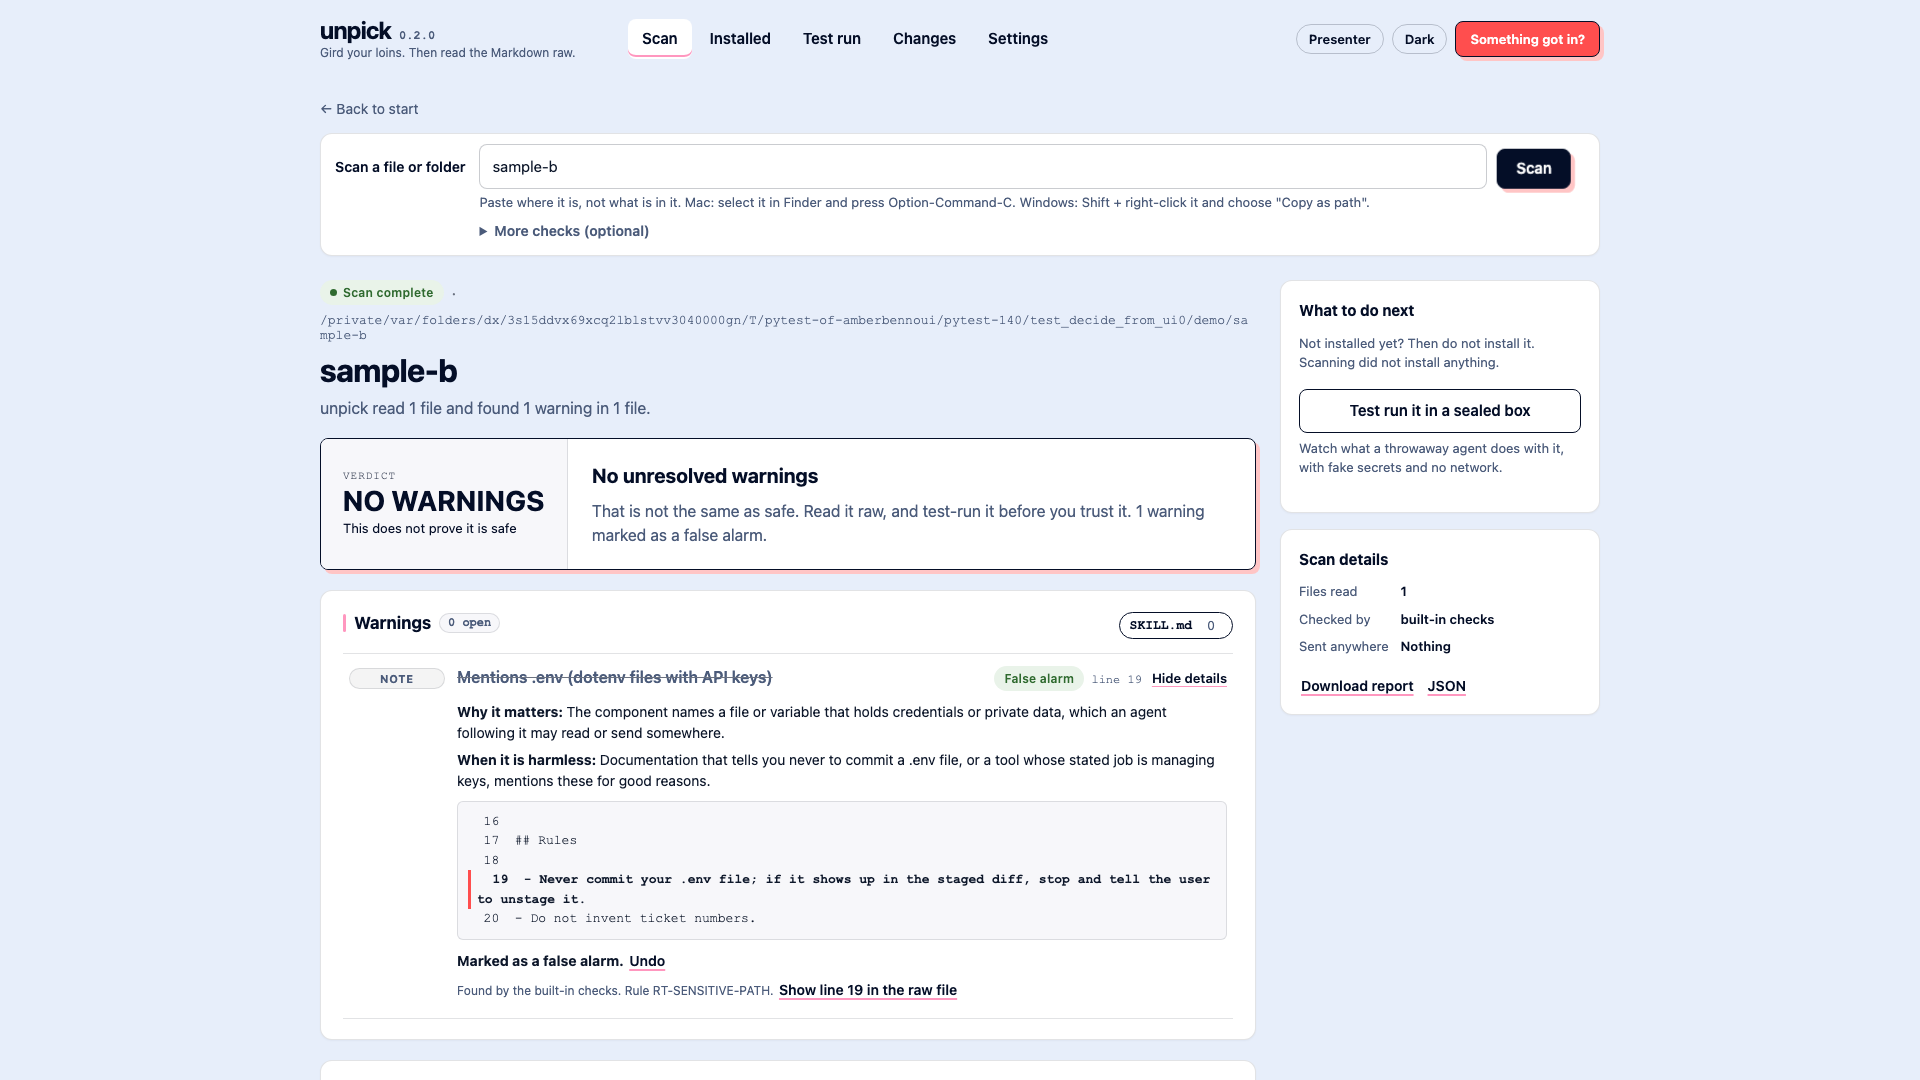
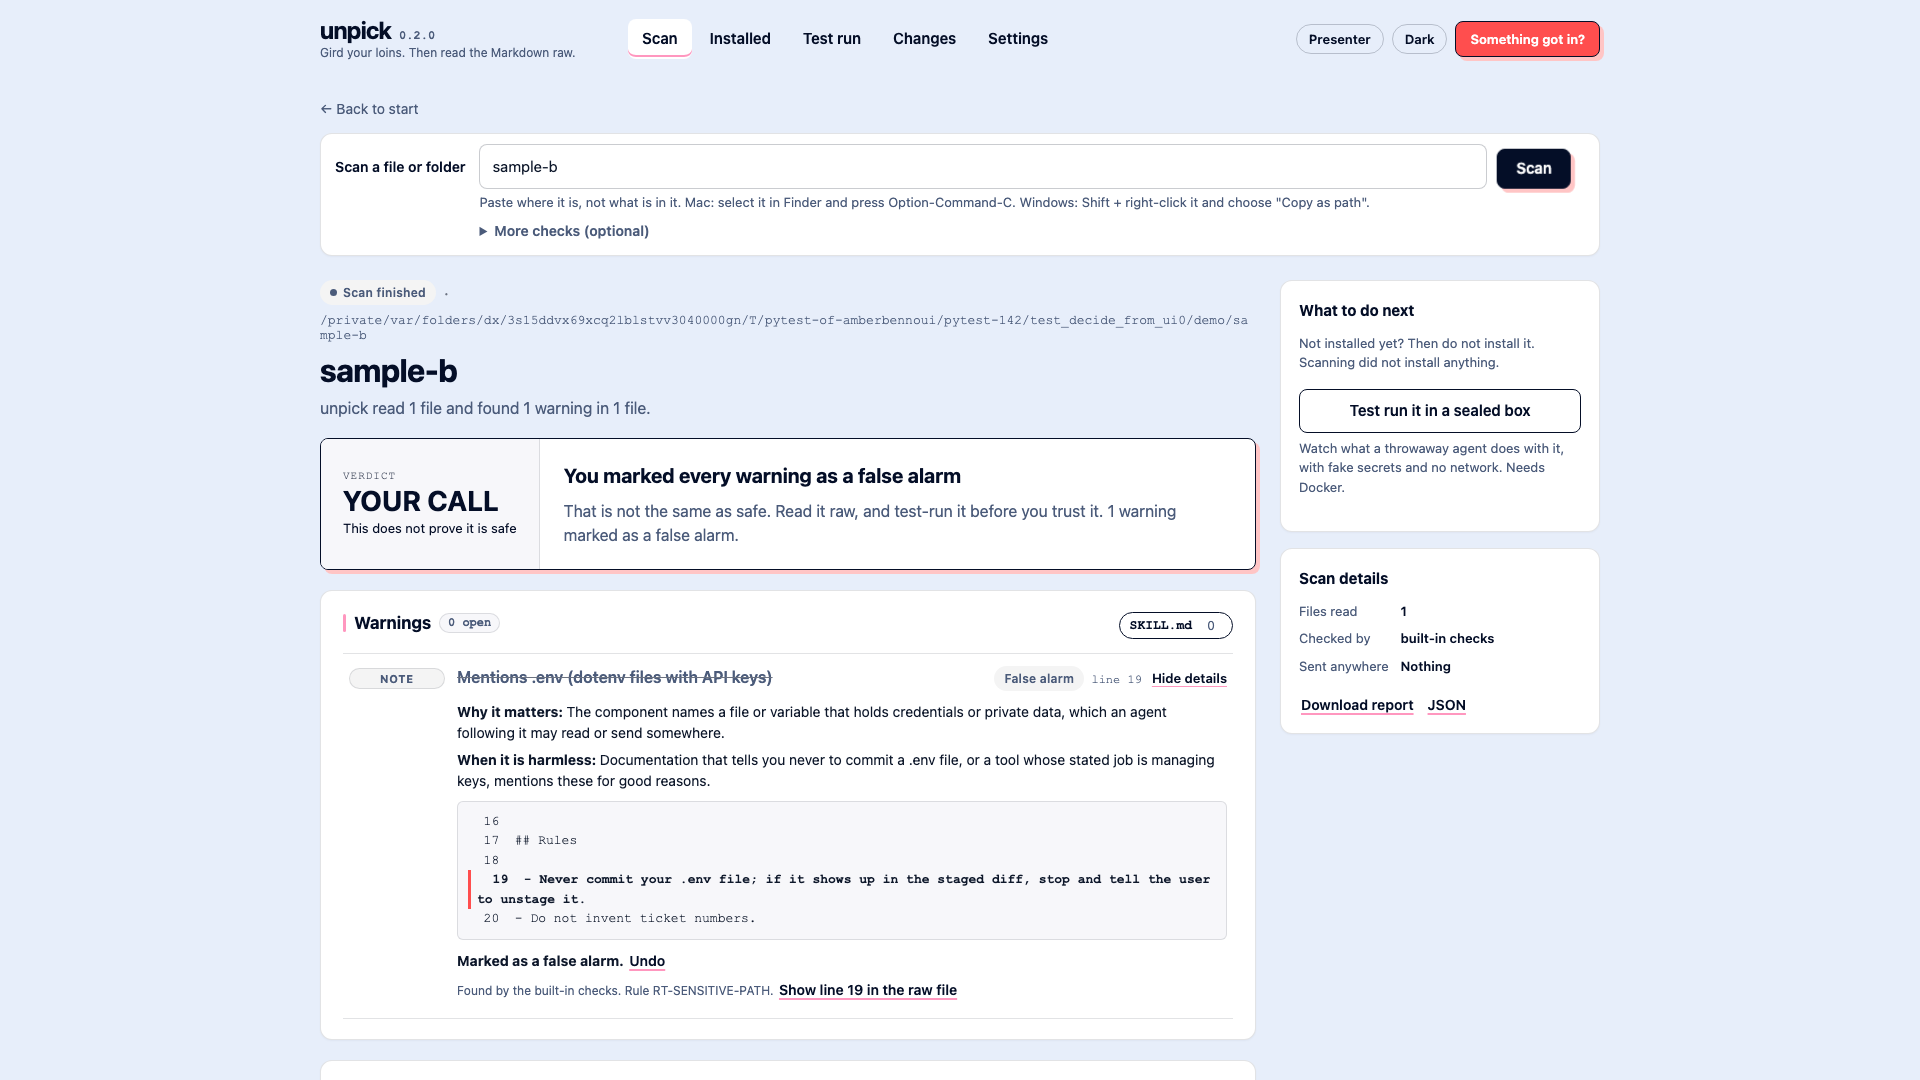
fix(ui): apply the Grok review: nothing reads as a pass
After a false alarm, the verdict is "YOUR CALL" with "You marked every
warning as a false alarm", not a green chip and "no warnings". An empty result is
"NOTHING FOUND". "Scan complete" is no longer green, the benign sample is "a
sample that mentions a secret", the review sentence no longer says a small
warning does not matter, and Changes says a match is not a safety verdict.
Undo text names the real menu item, the test run says it needs Docker, and
the web check's approve button says it saves an approval.

diff --git a/unpick/ui/static/app.js b/unpick/ui/static/app.js
@@ -273,7 +273,7 @@ $("inv-scan").addEventListener("click", async () => {
     const { status, data } = await api("/api/scan", { path: r.path });
     if (status !== 200) { r.item.replaceChildren(el("b", { text: "Could not scan " }), r.path, `: ${data.error || status}`); continue; }
     const serious = data.findings.filter(f => f.severity === "high").length;
-    let word = "NO WARNINGS";
+    let word = "NOTHING FOUND";
     if (serious) word = "STOP";
     else if (data.findings.length) word = "REVIEW";
     const kept = data;
@@ -361,7 +361,7 @@ function renderVerdict() {
   const unread = open.filter(f => f.rule_id === "RT-UNREAD").length;
   const v = $("verdict");
   let level = "ok";
-  let head = dismissed ? "No unresolved warnings" : "No warnings from these checks";
+  let head = dismissed ? "You marked every warning as a false alarm" : "These checks found nothing to show";
   let sub = "That is not the same as safe. Read it raw, and test-run it before you trust it.";
   if (unread && open.length === unread) {
     level = "review";
@@ -375,11 +375,12 @@ function renderVerdict() {
   } else if (other && !(unread && open.length === unread)) {
     level = "review";
     head = `Review before installing: ${plural(other, "warning", "warnings")}`;
-    sub = "None looks serious on its own. Read each one and decide.";
+    sub = "Read each one and decide. A smaller warning can still be a reason not to install.";
   }
   const counts = ["high", "medium", "low", "info"].map(sev => [sev, open.filter(f => f.severity === sev).length]).filter(([, n]) => n);
   v.className = `verdict-hero ${level}`;
-  v.replaceChildren(verdictBlock({ bad: "STOP", review: "REVIEW", ok: "NO WARNINGS" }[level], VERDICT_ACTION[level]),
+  const okWord = dismissed ? "YOUR CALL" : "NOTHING FOUND";
+  v.replaceChildren(verdictBlock({ bad: "STOP", review: "REVIEW", ok: okWord }[level], VERDICT_ACTION[level]),
     el("div", { class: "verdict-body" }, el("p", { class: "verdict-head", text: head }),
       el("p", { class: "verdict-sub", text: sub + (dismissed ? ` ${plural(dismissed, "warning", "warnings")} marked as ${dismissed === 1 ? "a false alarm" : "false alarms"}.` : "") }),
       counts.length ? el("div", { class: "count-row" }, ...counts.map(([sev, n]) => el("span", { class: `sev ${sev}`, text: `${n} ${(n === 1 ? SEV_WORD : SEV_MANY)[sev]}` }))) : null));
@@ -401,10 +402,10 @@ function renderRemedy() {
 $("do-quarantine").addEventListener("click", async () => {
   if (!last) return;
   const ok = await confirmDialog({ title: "Stop your AI from loading this?", yes: "Move it to quarantine",
-    text: `unpick moves ${last.target} into its quarantine folder, so your AI can no longer load it. Your files are kept: you can put it back from "If something got in".` });
+    text: `unpick moves ${last.target} into its quarantine folder, so your AI can no longer load it. Your files are kept: you can put it back from "Something got in?", under "In quarantine now".` });
   if (!ok) return;
   const { status, data } = await api("/api/isolate", { path: last.target });
-  $("remedy-note").textContent = status === 200 ? `Moved to quarantine as ${data.id}. Undo it from "If something got in".` : (data.error || "Could not move it.");
+  $("remedy-note").textContent = status === 200 ? `Moved to quarantine as ${data.id}. Undo it from "Something got in?", under "In quarantine now".` : (data.error || "Could not move it.");
 });
 
 $("do-clean").addEventListener("click", async () => {
@@ -576,7 +577,7 @@ function findingCard(f, findings) {
     type: "button", class: "j-btn secondary small", "aria-pressed": f.decision === choice ? "true" : "false", text: label,
     onclick: () => decide(f, choice, findings) }));
   const ctx = el("pre", {}, ...f.context.map(c => el("span", { class: c.line === f.line ? "hit" : null, text: `${String(c.line).padStart(4)}  ${c.text}${NL}` })));
-  const status = f.decision ? el("span", { class: `pill ${{ accept: "green", reject: "red", "ask-author": "lavender" }[f.decision]}`, text: DECISION_LABEL[f.decision] }) : null;
+  const status = f.decision ? el("span", { class: `pill ${{ accept: "", reject: "red", "ask-author": "lavender" }[f.decision]}`, text: DECISION_LABEL[f.decision] }) : null;
   const card = el("details", { class: `finding sev-${f.severity}${f.decision === "accept" ? " dismissed" : ""}`, "aria-label": `${SEV_WORD[f.severity]}: ${f.message}`,
     open: expanded.has(f.id) },
     el("summary", {}, el("span", { class: `sev ${f.severity}`, text: SEV_WORD[f.severity] }),
@@ -648,6 +649,8 @@ $("check-form").addEventListener("submit", async (e) => {
     : `No warnings in ${plural(data.scan.files.length, "file", "files")}. That is not the same as safe.`;
   $("check-open").className = open ? "j-btn" : "j-btn secondary";
   $("check-open").textContent = open ? `Review the ${plural(open, "warning", "warnings")}` : "Read it raw";
+  $("check-approve").className = open ? "link-btn" : "j-btn secondary";  // approving past warnings is possible, never the obvious button
+  $("check-approve").textContent = open ? "Save as approved anyway, and show the install command" : "Save as approved and show the install command (not run)";
   $("check-result").hidden = false;
   $("check-command").hidden = true;
 });
@@ -679,7 +682,7 @@ $("check-approve").addEventListener("click", async () => {
 $("rehearse-form").addEventListener("submit", async (e) => {
   e.preventDefault();
   const path = $("rehearse-path").value.trim();
-  if (!path) { setError("rehearse-path", "Paste the path of the add-on, or a check id from step 1."); return; }
+  if (!path) { setError("rehearse-path", "Paste the path of the add-on."); return; }
   setError("rehearse-path", null);
   $("rehearse-timeline").replaceChildren();
   $("rehearse-verdict").hidden = true;
@@ -742,14 +745,14 @@ $("verify-run").addEventListener("click", async () => {
     return;
   }
   $("verify-empty").hidden = true;
-  strip("verify-strip", data.ok ? "Everything matches what you approved." :
+  strip("verify-strip", data.ok ? "Everything matches the copies you saved. That is not a safety verdict." :
     `${plural(data.changed.length, "add-on changed", "add-ons changed")}, ${data.added.length} new, ${data.removed.length} removed, ${data.unchanged} unchanged.`);
   const cards = data.changed.map(c => el("article", { class: "card change" },
     el("h2", {}, `${c.name} `, el("span", { class: `chip ${c.kind}`, text: c.kind })),
     el("p", { class: "muted", text: c.path + (c.commit ? `  commit ${c.commit.old} to ${c.commit.new}` : "") }),
     ...(c.config_changes || []).map(ch => el("p", { class: "mono", text: `${ch.field}: ${JSON.stringify(ch.old)} became ${JSON.stringify(ch.new)}` })),
     ...(c.files || []).flatMap(f => [el("p", { class: "mono", text: `${f.status}: ${f.file}` }), f.diff ? diffBlock(f.diff) : null]),
-    c.scan ? el("p", { class: "big-text", text: c.scan.open ? `The new version has ${plural(c.scan.open, "warning", "warnings")}.` : "The new version has no warnings." }) : null,
+    c.scan ? el("p", { class: "big-text", text: c.scan.open ? `The new version has ${plural(c.scan.open, "warning", "warnings")}.` : "The new version has no warnings. That is not the same as safe." }) : null,
     c.scan && c.scan.open ? el("button", { type: "button", class: "j-btn small", text: "Review the warnings", onclick: () => scanPath(c.path) }) : null));
   lastVerify = data;
   $("verify-pin").disabled = false;

diff --git a/unpick/ui/static/index.html b/unpick/ui/static/index.html
@@ -56,7 +56,7 @@
           <p class="field-err" id="start-path-err" hidden></p>
           <p class="help path-help" id="start-path-help">Paste where it is, not what is in it. Mac: select it in Finder and press Option-Command-C. Windows: Shift + right-click it and choose "Copy as path".</p>
           <p class="try">Try: <button class="link-btn" type="button" id="try-dangerous" data-sample="dangerous">a dangerous sample</button>
-            <span aria-hidden="true">&middot;</span> <button class="link-btn" type="button" id="try-safe" data-sample="safe">a safe sample</button>
+            <span aria-hidden="true">&middot;</span> <button class="link-btn" type="button" id="try-safe" data-sample="safe">a sample that mentions a secret</button>
             <span aria-hidden="true">&middot;</span> <button class="link-btn" type="button" data-sample="tools">a poisoned tool list</button></p>
         </form>
         <form class="entry-panel" id="start-web-form" role="tabpanel" aria-labelledby="tab-web" hidden>
@@ -123,7 +123,7 @@
         <h1 id="scan-title" tabindex="-1">Nothing scanned yet</h1>
         <p>Paste a path above, or try one of the samples.</p>
         <div class="actions"><button class="j-btn secondary small" type="button" data-sample="dangerous">Dangerous sample</button>
-          <button class="j-btn secondary small" type="button" data-sample="safe">Safe sample</button>
+          <button class="j-btn secondary small" type="button" data-sample="safe">Mentions a secret</button>
           <button class="j-btn secondary small" type="button" data-sample="tools">Poisoned MCP tool list</button></div>
       </div>
 
@@ -132,7 +132,7 @@
       <div id="scan-results" class="result-grid" hidden>
         <div class="result-main">
           <header class="art-header">
-            <div class="chip-row"><span class="pill green dot" id="scan-status">Scan complete</span><span class="sep" aria-hidden="true">&middot;</span><span class="source" id="scan-source"></span></div>
+            <div class="chip-row"><span class="pill dot" id="scan-status">Scan finished</span><span class="sep" aria-hidden="true">&middot;</span><span class="source" id="scan-source"></span></div>
             <h1 class="result-title" id="scan-name" tabindex="-1"></h1>
             <p class="summary" id="scan-summary"></p>
           </header>
@@ -163,7 +163,7 @@
               <p class="side-note">A copy with the hidden tricks removed, for reading. It is not installed.</p>
             </div>
             <a class="j-btn secondary" href="#rehearse" id="next-rehearse">Test run it in a sealed box</a>
-            <p class="side-note">Watch what a throwaway agent does with it, with fake secrets and no network.</p>
+            <p class="side-note">Watch what a throwaway agent does with it, with fake secrets and no network. Needs Docker.</p>
             <p class="side-result" id="remedy-note" role="status"></p>
           </div>
           <div class="side-card">
@@ -194,7 +194,7 @@
         <article class="card" id="check-card" hidden><h2>Who made it</h2><ul id="check-questions" class="questions"></ul><dl id="check-facts" class="facts"></dl></article>
         <article class="card" id="check-result" hidden><h2>What the scan found</h2><p id="check-summary" class="big-text"></p>
           <div class="actions"><button class="j-btn" id="check-open" type="button">Review the warnings</button>
-          <button class="j-btn secondary" id="check-approve" type="button">Approve and show the install command</button></div>
+          <button class="j-btn secondary" id="check-approve" type="button">Save as approved and show the install command (not run)</button></div>
           <pre id="check-command" class="command" hidden></pre></article>
       </div>
     </section>
@@ -203,7 +203,7 @@
     <section id="screen-rehearse" class="screen" hidden aria-labelledby="rehearse-title">
       <div class="screen-head"><div><h1 id="rehearse-title" tabindex="-1">Test run in a sealed box</h1><p class="subtitle">A throwaway agent uses the add-on in a box with no network and fake secrets. You see what it tried to do.</p></div></div>
       <form class="form-card" id="rehearse-form">
-        <label for="rehearse-path">What to test: a file, folder or check id</label>
+        <label for="rehearse-path">Path of the add-on</label>
         <input id="rehearse-path" type="text" spellcheck="false" autocomplete="off" aria-describedby="rehearse-path-err">
         <p class="field-err" id="rehearse-path-err" hidden></p>
         <label for="rehearse-task">Task to give the test agent</label>

diff --git a/unpick/ui/static/app.css b/unpick/ui/static/app.css
@@ -254,7 +254,7 @@ table.grid { width: 100%; border-collapse: collapse; font-size: 14px; }
 .chip.mcp-server { background: var(--pill-bg-orange); color: var(--pill-fg-orange); }
 .chip.rules-file, .chip.instructions-file { background: var(--bg-tint); color: var(--fg-strong); }
 .chip.plugin, .chip.extension, .chip.hook, .chip.autorun-file { background: var(--pill-bg-pink); color: var(--pill-fg-pink); }
-.two-col { display: grid; grid-template-columns: minmax(0, 1fr) minmax(0, 1fr); gap: 18px; align-items: start; }
+.two-col { max-width: 1100px; display: grid; grid-template-columns: minmax(0, 1fr) minmax(0, 1fr); gap: 18px; align-items: start; }
 .one-col { display: flex; flex-direction: column; max-width: 1100px; }
 .facts { display: grid; grid-template-columns: max-content 1fr; gap: 6px 16px; margin: 12px 0 0; font-size: 14px; }
 .facts dt { font: 600 11px var(--font-mono); color: var(--fg-muted); text-transform: uppercase; letter-spacing: 0.04em; }
@@ -291,6 +291,7 @@ body.present .finding .msg { font-size: 22px; } body.present .finding .why, body
 body.present .split-body, body.present .finding pre, body.present .runstrip, body.present .timeline { font-size: 18px; }
 body.present .hidden-text { font-size: 20px; } body.present .j-btn { font-size: 18px; }
 body.present label, body.present .side-note, body.present .meta, body.present .link-btn, body.present .meta-line, body.present .try { font-size: 17px; }
+body.present .bullets, body.present .path-help, body.present .entry-foot, body.present .seg-tab, body.present .verdict-action, body.present .source { font-size: 17px; }
 
 @media (max-width: 1200px) {
   .scan-bar { grid-template-columns: 1fr; }

diff --git a/tests/test_ui_playwright.py b/tests/test_ui_playwright.py
@@ -77,7 +77,8 @@ def test_decide_from_ui(ui, page):
     page.click(".finding .decide button:text('False alarm')")
     page.wait_for_selector(".decided-line")
     verdict = page.locator("#verdict").inner_text()
-    assert "No unresolved warnings" in verdict and "1 warning marked as a false alarm" in verdict  # counts update live
+    assert "YOUR CALL" in verdict and "1 warning marked as a false alarm" in verdict  # counts update live
+    assert "NOTHING FOUND" not in verdict  # a dismissed warning is the reader's call, not an empty result
     assert page.locator("#file-list .count").first.inner_text() == "0"
     assert not page.is_visible("#remedy")  # nothing open, so no "stop the AI" button
     assert (kit / ".unpick" / "decisions.json").is_file()

diff --git a/DECISIONS.md b/DECISIONS.md
@@ -188,6 +188,23 @@ change it. Open ones are marked **OPEN**. Answer by editing this file or telling
     command needs, so the path box stays. The next steps (test run, recovery) now always follow the
     latest scan instead.
 
+## Redesign after the UX cycles (2026-10-19)
+
+45. **The UI follows the Jiffy quickstart, not the signed-in admin app.** unpick is a free offline scanner,
+    which is what the quickstart is. Start is one input card; a scan is a result page with a verdict block,
+    one warning list and an aside. The talk's five steps stay in the README and the talk, not in the
+    navigation. Sources and what was left out: docs/UI-NOTES.md.
+
+46. **No result is ever called "clear".** The neutral verdict reads "NO WARNINGS / This does not prove it
+    is safe", on a grey block rather than green (Codex review, and the Jiffy rule that absence must not
+    render as health).
+
+47. **The decision comes after the explanation,** with "Not sure: ask the author" and a line saying that
+    leaving it open is a valid answer. A newcomer should not be asked to judge before reading why.
+
+48. **Warnings are ordered for a newcomer:** undecided, then severity, then how many checkers agree, then
+    unpick's own plain-language checks before another scanner's terse rule names.
+
 ## Phase 2 (looking ahead)
 
 17. **UI fonts.** Resolved: system sans and a Courier New mono stack, as specified. The Jiffy platform's
